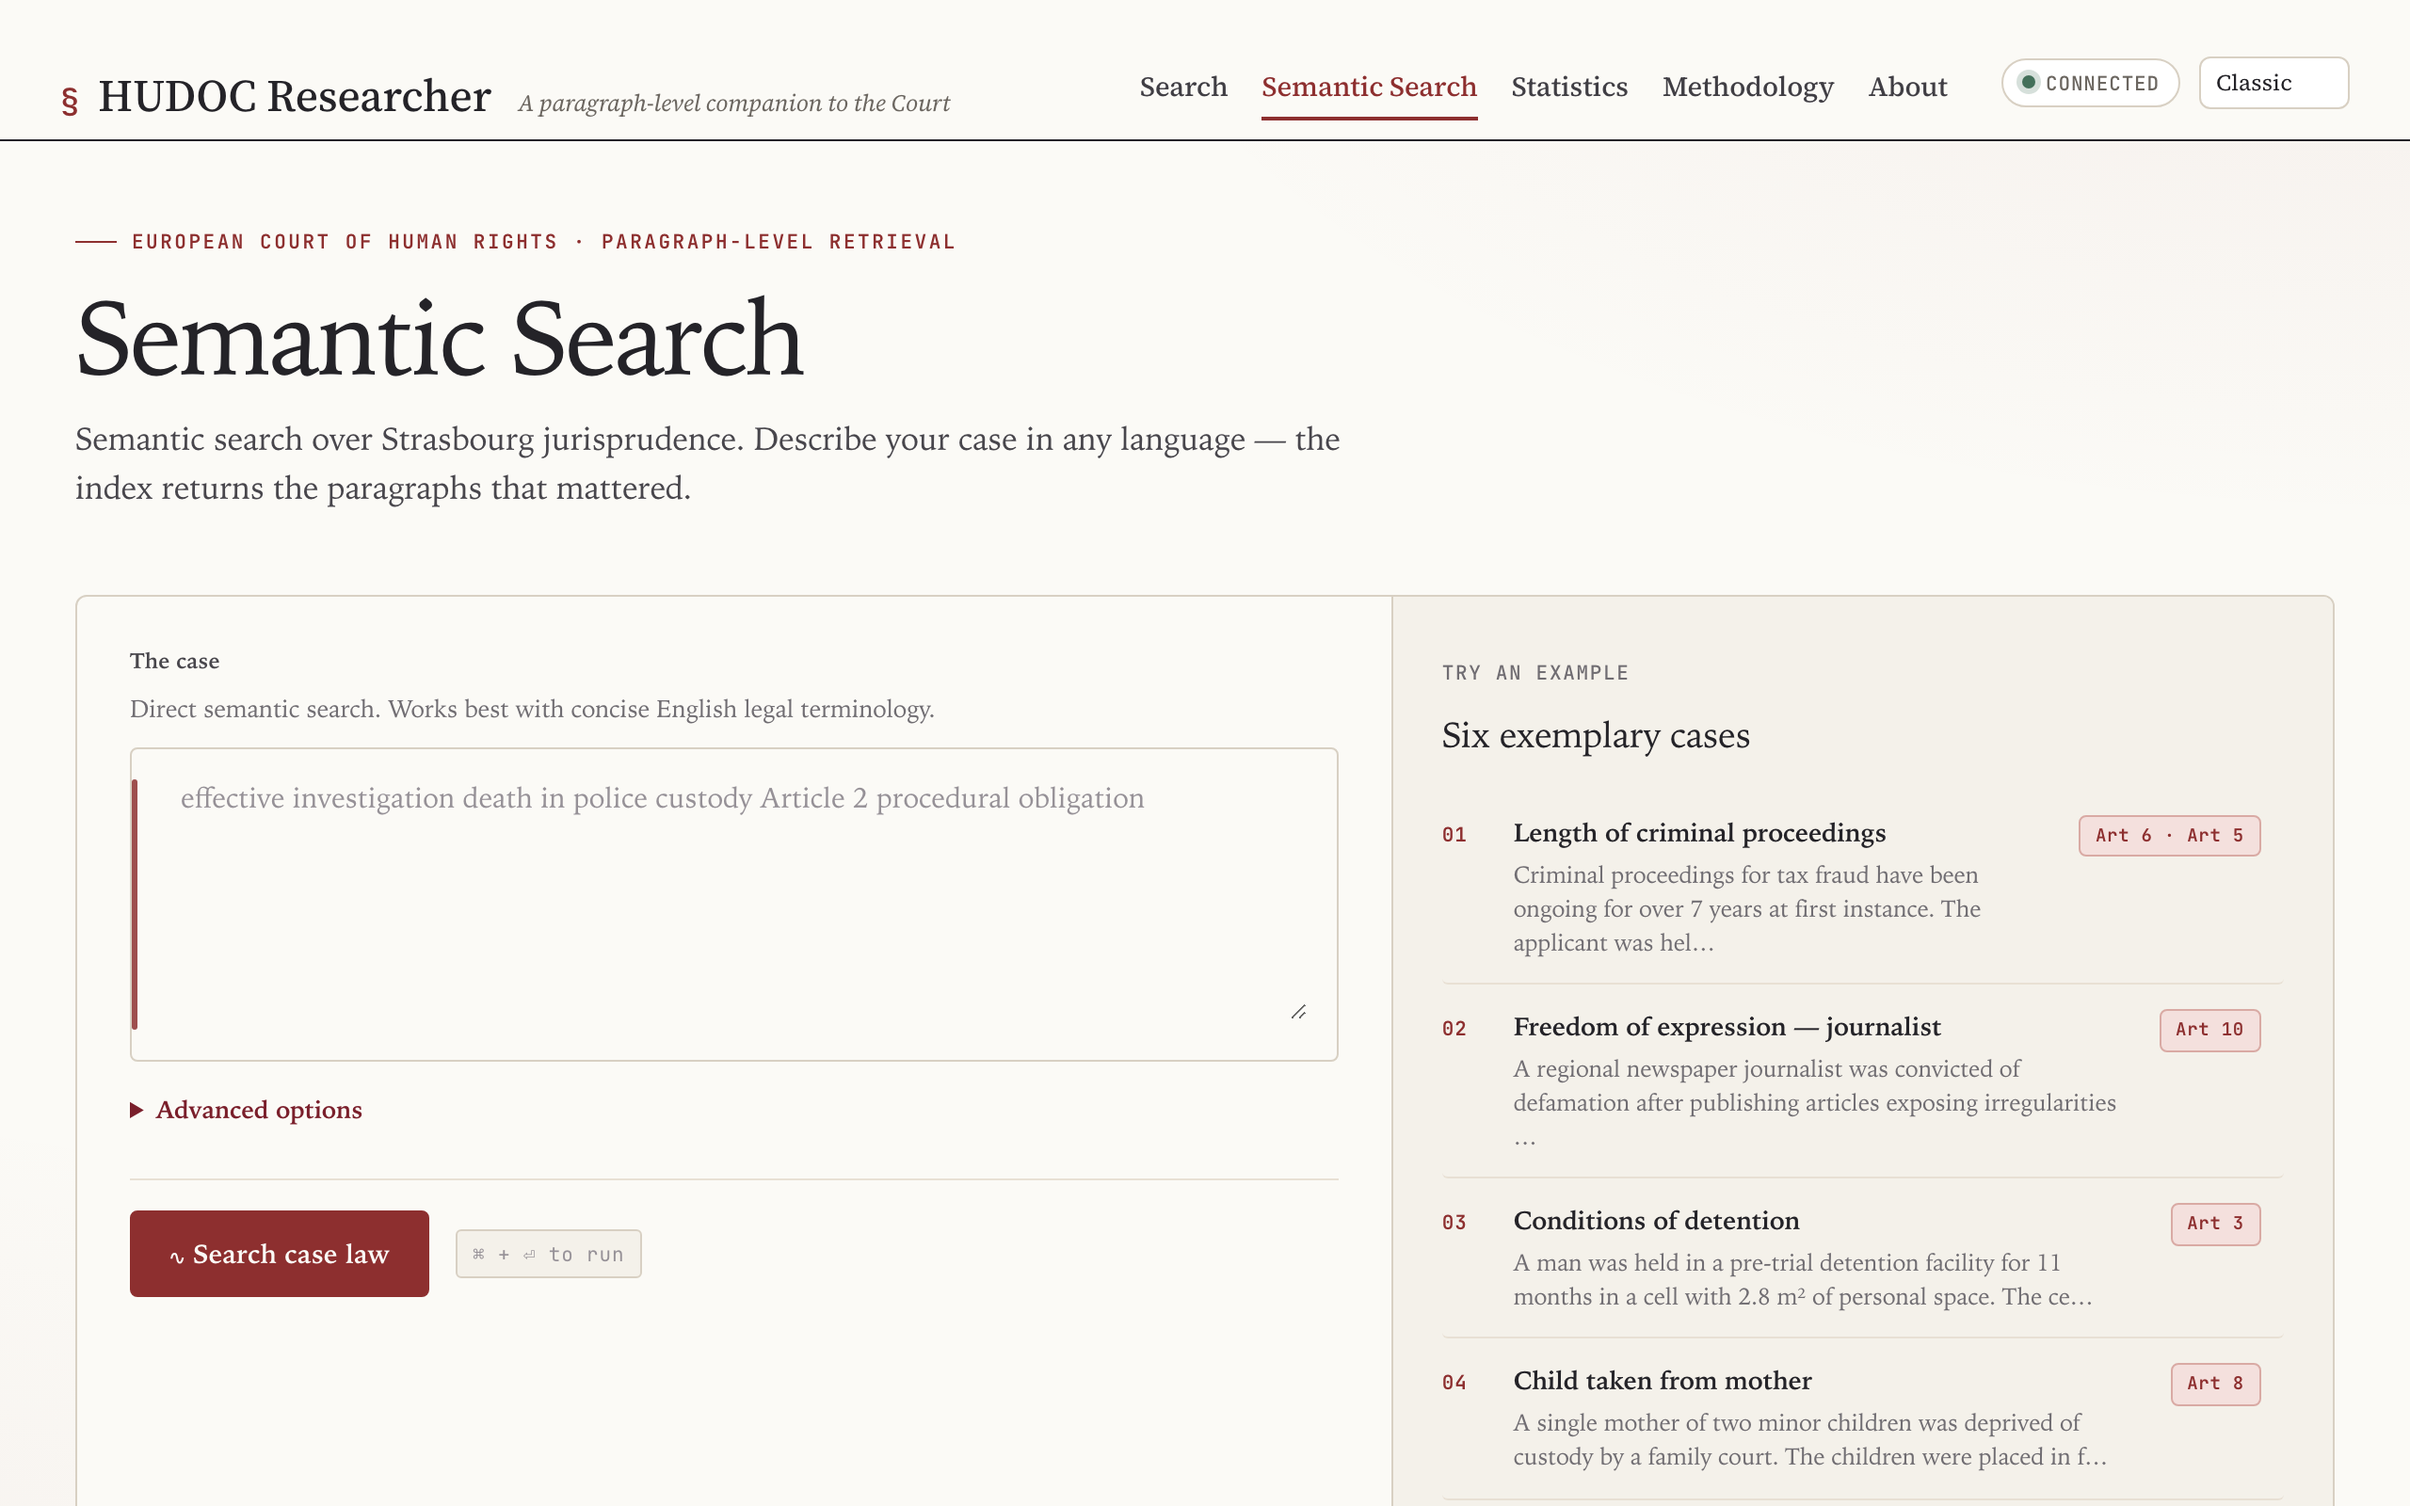
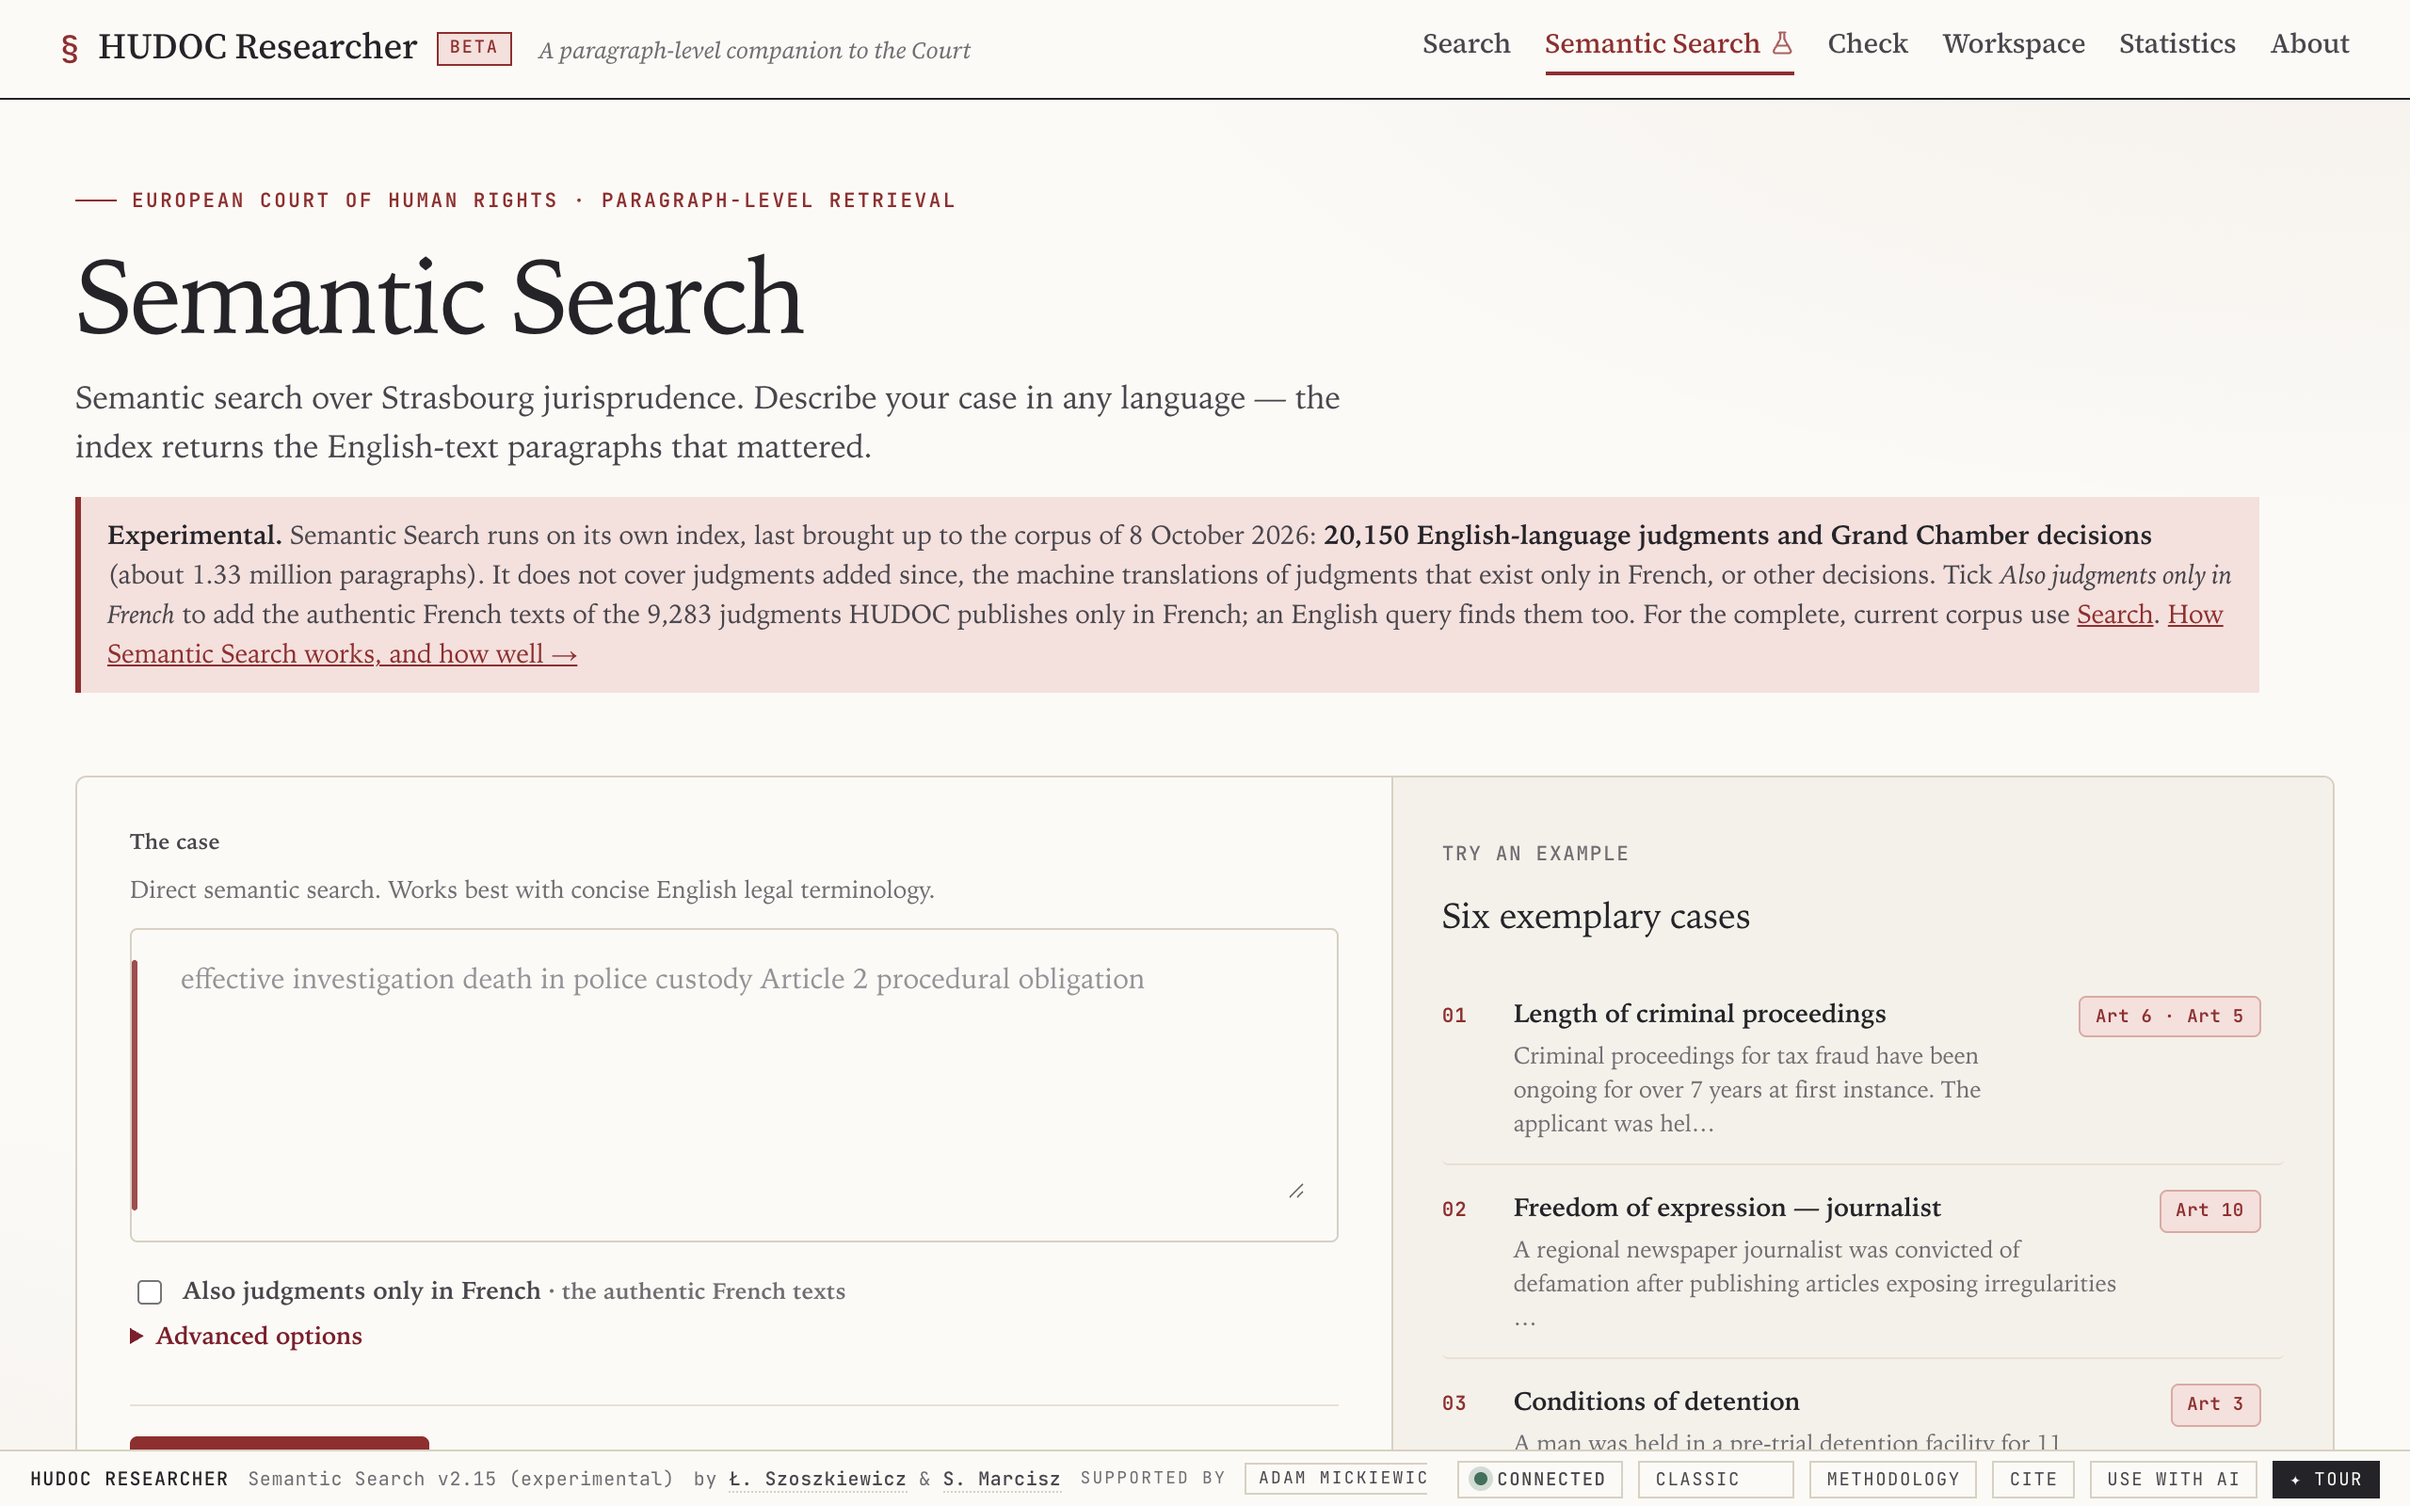
HUDOC Researcher: Public beta card, current figures and contents, fresh screenshots
Card on the home page now says Public beta (new status style, no dashed border)
and links to the app. The tool page and llms.txt carry the figures of the live
corpus (20,073 judgments in English, 9,284 only in French, 8 October 2026
cut-off), the current features (Check, Workspace, Semantic Search, French
originals, machine translations) and the MCP server, skill and dataset.

diff --git a/_sass/_base.scss b/_sass/_base.scss
@@ -946,6 +946,11 @@ footer.sticky-bottom {
     box-shadow: 0 0 0 3px rgba(39, 132, 91, 0.12);
   }
 
+  &.beta::before {
+    background: #3a6ea5;
+    box-shadow: 0 0 0 3px rgba(58, 110, 165, 0.14);
+  }
+
   &.development::before {
     background: #c4882f;
     box-shadow: 0 0 0 3px rgba(196, 136, 47, 0.14);

diff --git a/_tools/hudoc-researcher.md b/_tools/hudoc-researcher.md
@@ -1,7 +1,7 @@
 ---
 layout: page
 title: HUDOC Researcher
-description: Paragraph-level search across nearly 20,000 ECtHR judgments with citation tracking and source-exact HUDOC text
+description: Paragraph-level search of the case law of the European Court of Human Rights (over 20,000 judgments in English and over 9,000 only in French), with a citation network, Semantic Search and a Check of the citations in a draft
 img: assets/img/tools/hudoc-search-results.png
 importance: 4
 kicker: European case law
@@ -9,25 +9,28 @@ status: Public beta
 tags:
   - Paragraph search
   - Citation graph
+  - Semantic search
   - Legal analytics
 app: https://lszoszk.github.io/ECHR-Dashboard/
 github: https://github.com/lszoszk/ECHR-Dashboard
+mcp: https://github.com/lszoszk/mcp-echr
 doi: https://doi.org/10.5281/zenodo.21319703
 giscus_comments: true
 ---
 
-<p class="project-intro">A research dashboard for exploring nearly 20,000 European Court of Human Rights judgments as structured legal data, while keeping the wording and organisation of the HUDOC source documents visible.</p>
+<p class="project-intro">An independent toolkit built on HUDOC data for working with the case law of the European Court of Human Rights at the level of the Court's own paragraphs. HUDOC remains the authoritative source and stays one click away from every paragraph.</p>
 
 <div class="project-actions">
   <a class="project-action primary" href="https://lszoszk.github.io/ECHR-Dashboard/">Open dashboard</a>
   <a class="project-action" href="https://github.com/lszoszk/ECHR-Dashboard">Source code</a>
   <a class="project-action" href="https://doi.org/10.5281/zenodo.21319703">Zenodo DOI</a>
+  <a class="project-action" href="https://github.com/lszoszk/mcp-echr">MCP server</a>
 </div>
 
 <div class="project-metrics">
-  <div><strong>Paragraph-level</strong><span>structural search</span></div>
-  <div><strong>Source-exact</strong><span>HUDOC DOCX text</span></div>
-  <div><strong>Bidirectional</strong><span>citation tracking</span></div>
+  <div><strong>20,073</strong><span>judgments in English</span></div>
+  <div><strong>9,284</strong><span>only in French, searched in French</span></div>
+  <div><strong>8 Oct 2026</strong><span>corpus cut-off, topped up monthly</span></div>
 </div>
 
 ## Film
@@ -54,11 +57,18 @@ giscus_comments: true
 
 ## What it does
 
-- Searches judgment paragraphs with filters for Convention articles, respondent States, judges, importance, sections, and document type.
-- Rebuilds paragraphs from HUDOC source DOCX files rather than relying on scraped webpage text.
-- Extracts the ECtHR decisions and domestic-law sources cited by each judgment, plus later cases that cite it back.
-- Includes case analytics and an in-browser classifier for creating custom paragraph labels.
-- Uses an automated data pipeline for rebuilding and deploying the searchable corpus.
+- Searches the paragraphs of the judgments with HUDOC's operators and filters (Convention article, respondent State, importance, outcome, formation and the part of the judgment), and shows what each judgment cites as well as the later cases that cite it (287,316 citation links between the judgments and decisions of the corpus).
+- Covers 20,073 judgments in English (14 November 1960 – 8 October 2026) and, in their authentic French text, the 9,284 judgments that HUDOC publishes only in French. Unofficial English machine translations of the 2,460 most-cited of them can be switched on, clearly labelled. Decisions are a selection for now (3,557, about 12% of HUDOC's English decisions) and appear when Decisions is ticked.
+- Rebuilds paragraphs from HUDOC source DOCX files rather than relying on scraped webpage text, keeps the Court's own paragraph numbers, and gives each paragraph a link to HUDOC and a ready OSCOLA citation.
+- Semantic Search (experimental) finds passages from a plain-language description of a case. The query can be in any language, while the passages returned are in English.
+- Check compares the citations, paragraph numbers and quotations in a pasted text with the judgments.
+- Workspace keeps the paragraphs and searches you save, with your notes, in your browser, and Statistics presents the corpus in charts.
+
+## Use with Claude and other AI assistants
+
+- <a href="https://github.com/lszoszk/mcp-echr">mcp-echr</a>: the same search as an MCP server (seven tools, hosted, so a connector can be added without installing anything), which lets Claude or another assistant quote the Court verbatim, with the case name, application number, date and paragraph number.
+- <a href="https://github.com/lszoszk/mcp-echr/raw/main/skills/echr-research.zip">echr-research</a>: a Claude skill for finding the case law on an issue, quoting it with OSCOLA pinpoints and checking the citations in a draft.
+- Setup instructions are on the <a href="https://lszoszk.github.io/ECHR-Dashboard/about.html">About page</a> of the dashboard.
 
 ## Design principle
 
@@ -67,3 +77,5 @@ The dashboard combines computational analysis with a source-first reader. Search
 ## Citation
 
 The software has a stable <a href="https://doi.org/10.5281/zenodo.21319703">Zenodo concept DOI</a>. HUDOC Researcher is developed by Łukasz Szoszkiewicz and Sebastian Marcisz; legal propositions and quoted paragraphs should additionally cite the authoritative HUDOC case record.
+
+The software is released under the PolyForm Noncommercial License 1.0.0. The curated dataset (the segmentation into paragraphs, paragraph numbers, section labels, normalized metadata and citation links) is published on <a href="https://huggingface.co/datasets/lszoszk/ecthr-judgments">Hugging Face</a> under CC BY-NC-SA 4.0, while the judgments themselves remain © Council of Europe / European Court of Human Rights. HUDOC Researcher is not affiliated with the Court and is not legal advice.

diff --git a/_pages/about.md b/_pages/about.md
@@ -70,14 +70,14 @@ Previously, I was a Fulbright Scholar at <a href="https://ntc.columbia.edu/">Col
       <a class="home-tool-text-link" href="https://lszoszk.github.io/UnitedNations_recommendations/">Open UHRI+ <span aria-hidden="true">↗</span></a>
     </article>
 
-    <article class="home-tool-secondary is-development">
+    <article class="home-tool-secondary">
       <div class="home-tool-title-row">
         <span class="home-tool-number">03</span>
-        <span class="home-tool-status development">Under development</span>
+        <span class="home-tool-status beta">Public beta</span>
       </div>
       <h3><a href="{{ '/tools/hudoc-researcher/' | relative_url }}">HUDOC Researcher</a></h3>
-      <p>Paragraph-level structural and semantic search across ECtHR judgments, with quick citation export.</p>
-      <a class="home-tool-text-link" href="{{ '/tools/hudoc-researcher/' | relative_url }}">View development preview <span aria-hidden="true">→</span></a>
+      <p>Paragraph-level search of the case law of the European Court of Human Rights (over 20,000 judgments in English and over 9,000 only in French), with Semantic Search, a citation network and a Check of the citations in a draft.</p>
+      <a class="home-tool-text-link" href="https://lszoszk.github.io/ECHR-Dashboard/">Open HUDOC Researcher <span aria-hidden="true">↗</span></a>
     </article>
 
     <article class="home-tool-secondary" style="display:none">
